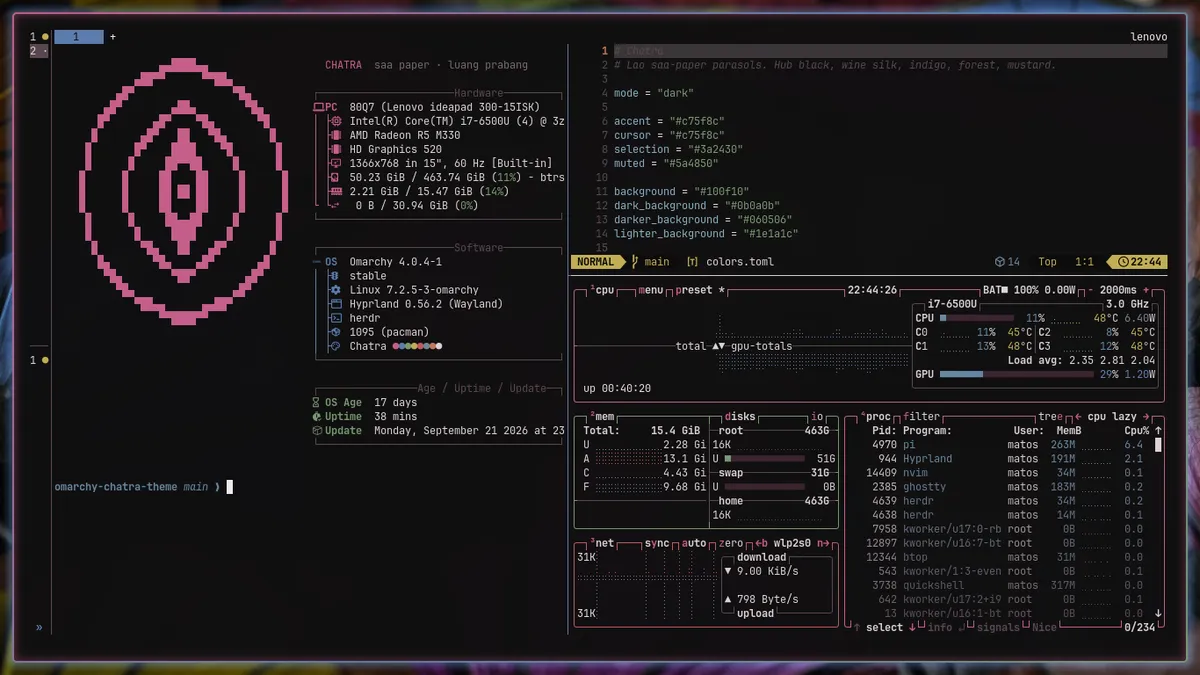
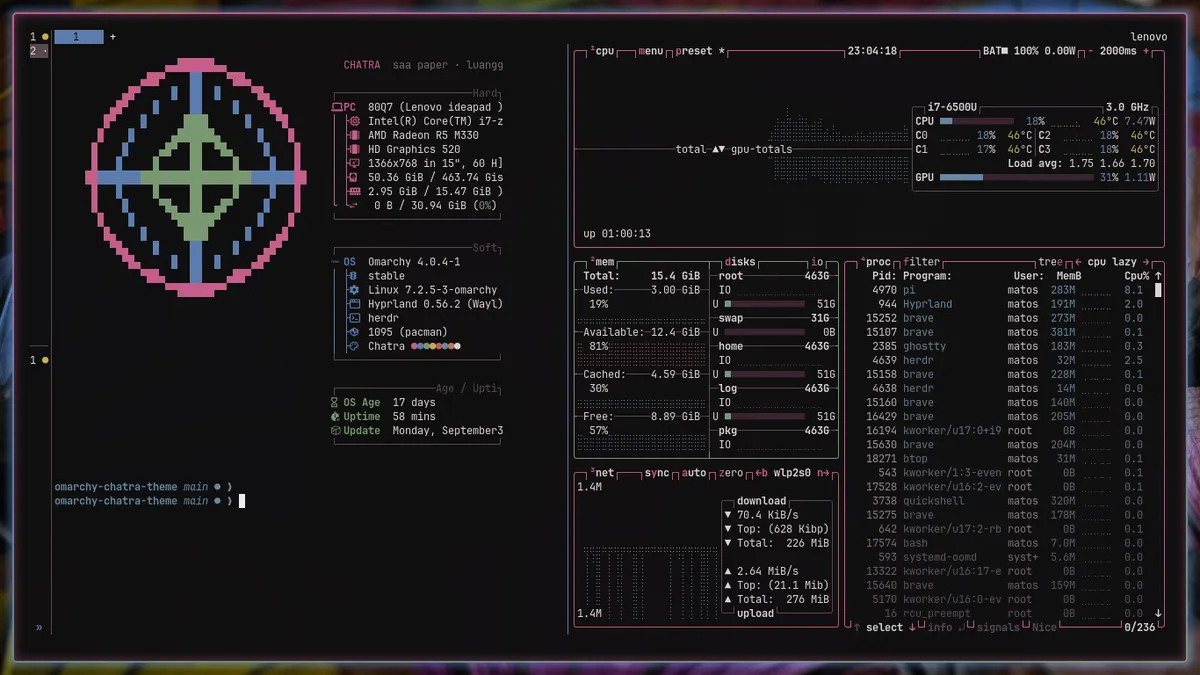
Replace the yonic parasol mark with a dharmachakra.
Eight-spoke wheel of dharma in wine, indigo, and forest — a Hindu and
Lao Buddhist peace symbol that still sits in the Chatra palette. Refresh
the live desktop preview to match.

diff --git a/README.md b/README.md
@@ -4,9 +4,9 @@ A dark [Omarchy](https://omarchy.org/) theme pulled from a close-up of **Lao saa
 
 In Theravāda Buddhism the ceremonial umbrella is the **chatra**: protection, rank, and a moving temple roof. This palette is the stall at night — hub black, wine silk, indigo, forest, a little mustard left in the corner.
 
-![Live desktop — Chatra fastfetch, Neovim on colors.toml, and btop](preview.png)
+![Live desktop — dharmachakra in fastfetch, btop in wine/indigo/forest](preview.png)
 
-Live Omarchy 4 session: ceremonial parasol mark, the palette file in Neovim, btop in wine/indigo/forest. Wallpaper photograph by Fabio Matos.
+Live Omarchy 4 session. The fastfetch mark is a **dharmachakra** (wheel of dharma) — eight spokes, solid hub — in wine, indigo, and forest. Wallpaper photograph by Fabio Matos.
 
 ## Install
 
